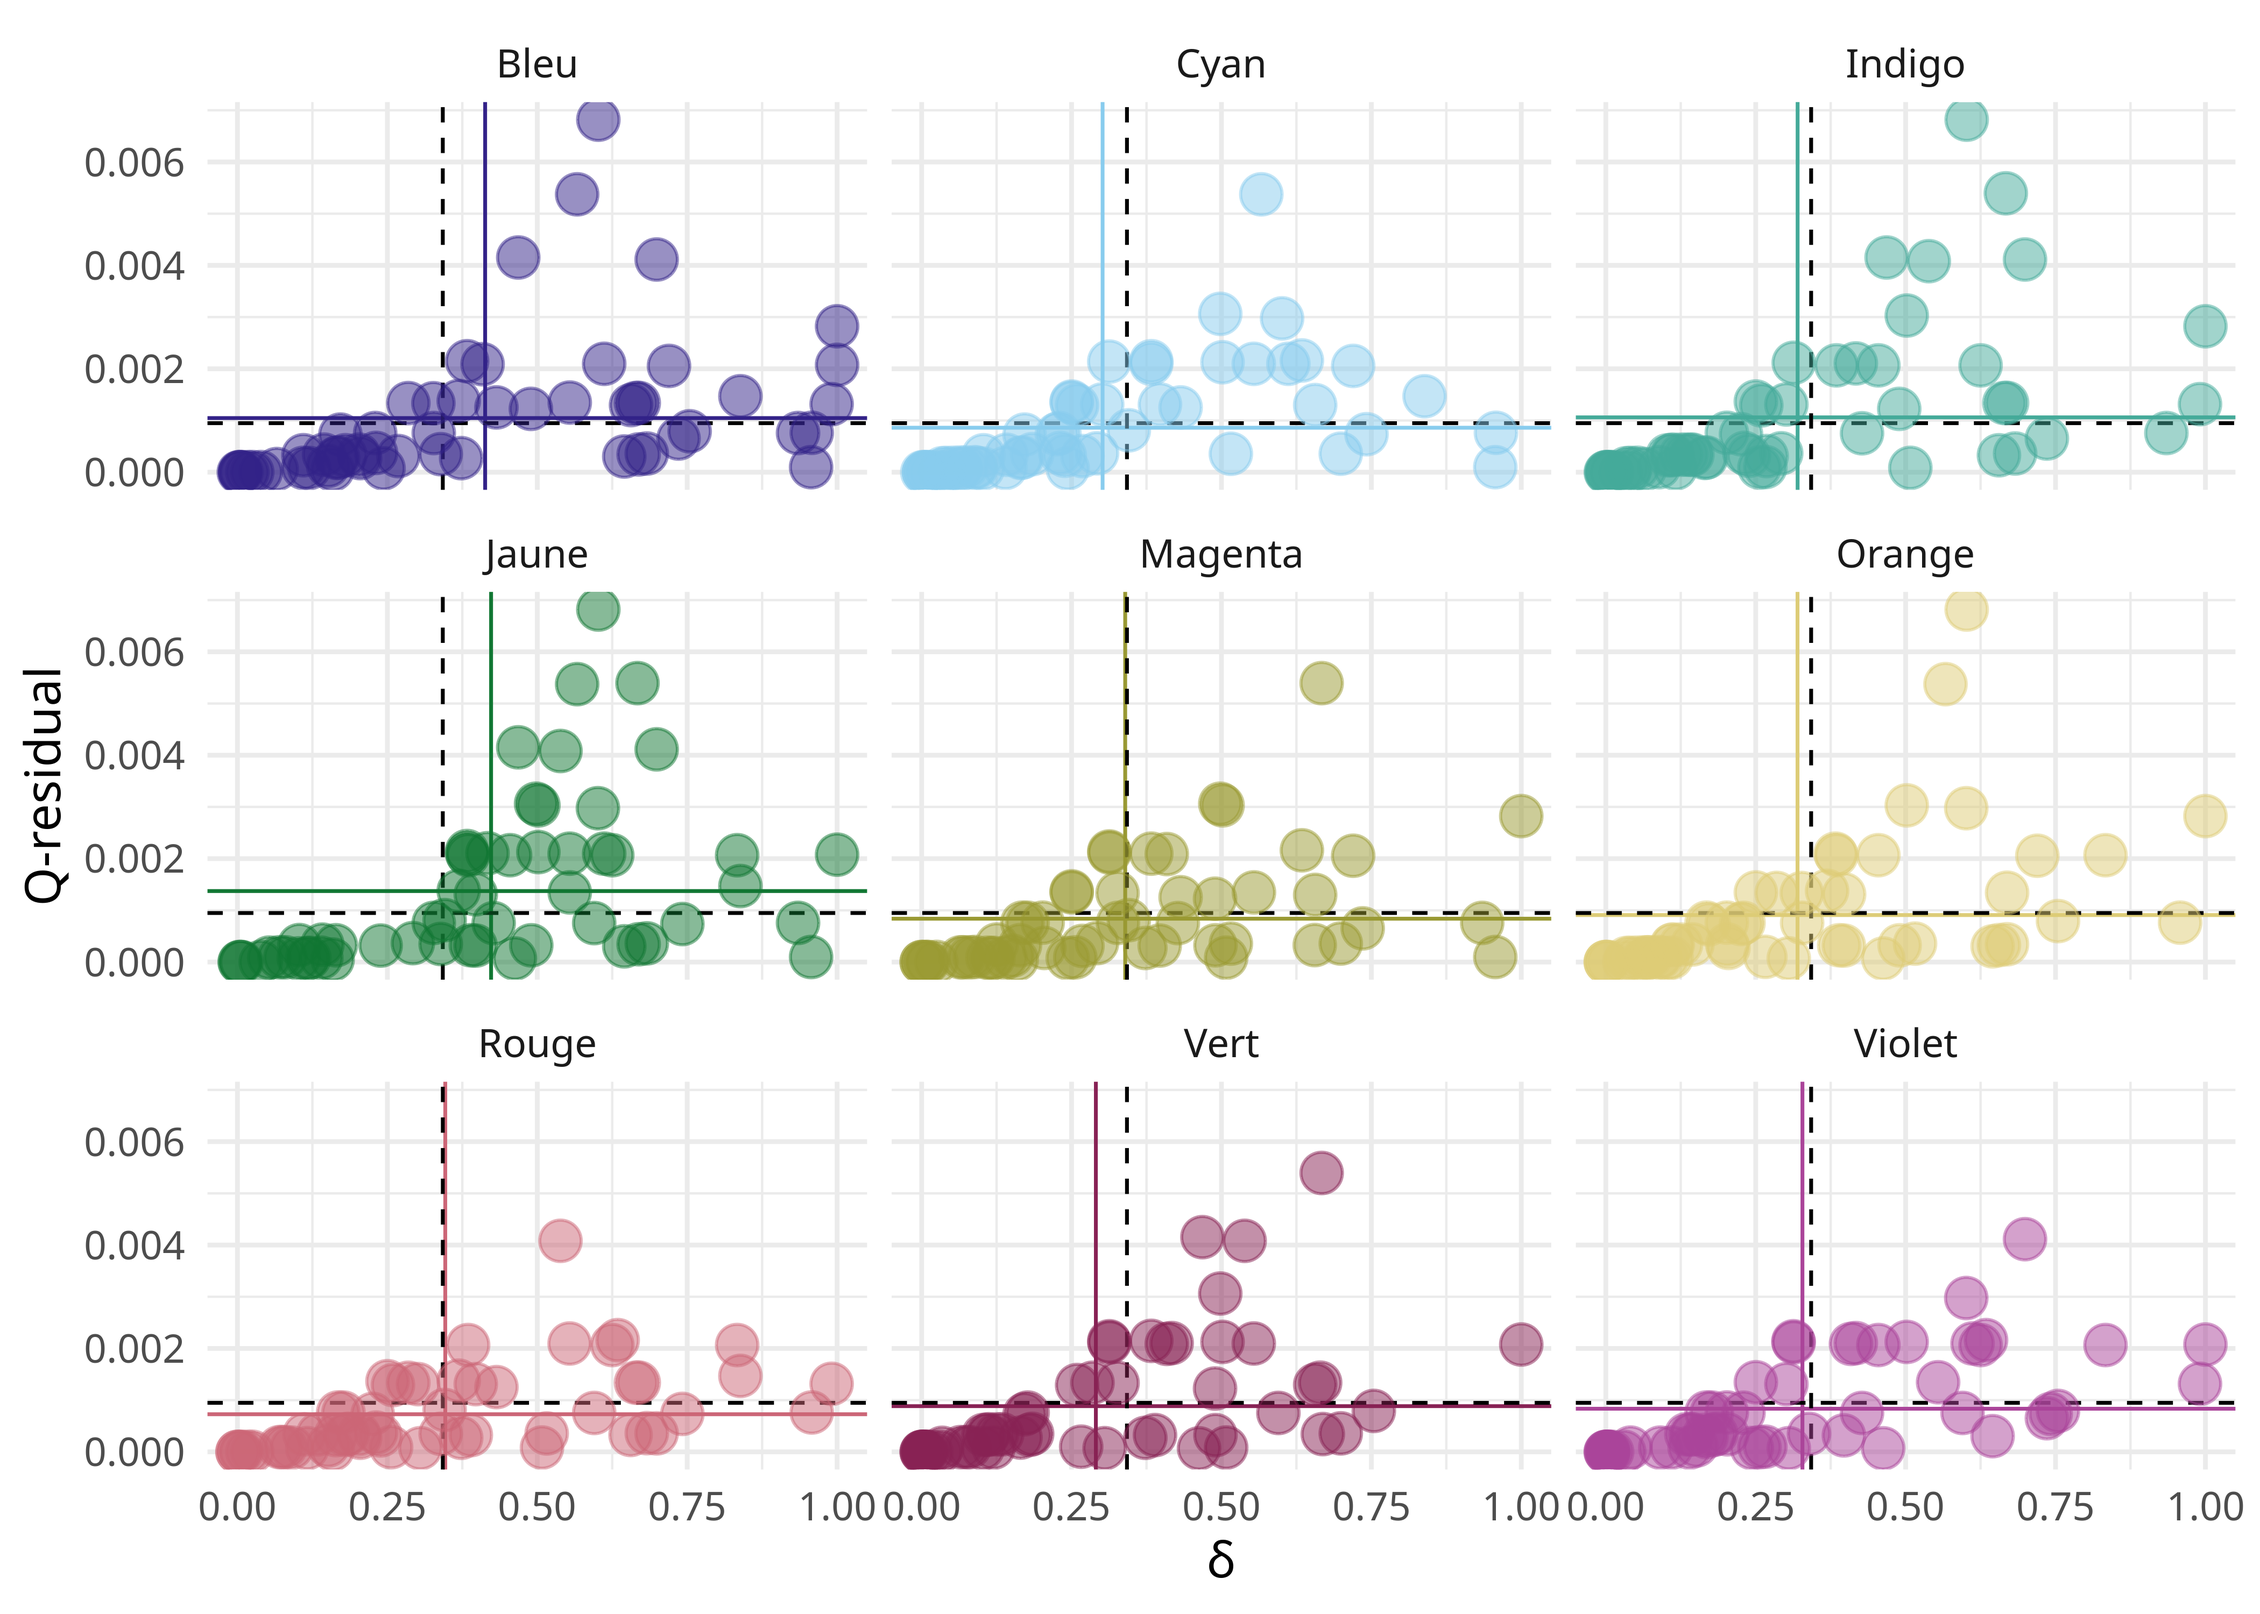
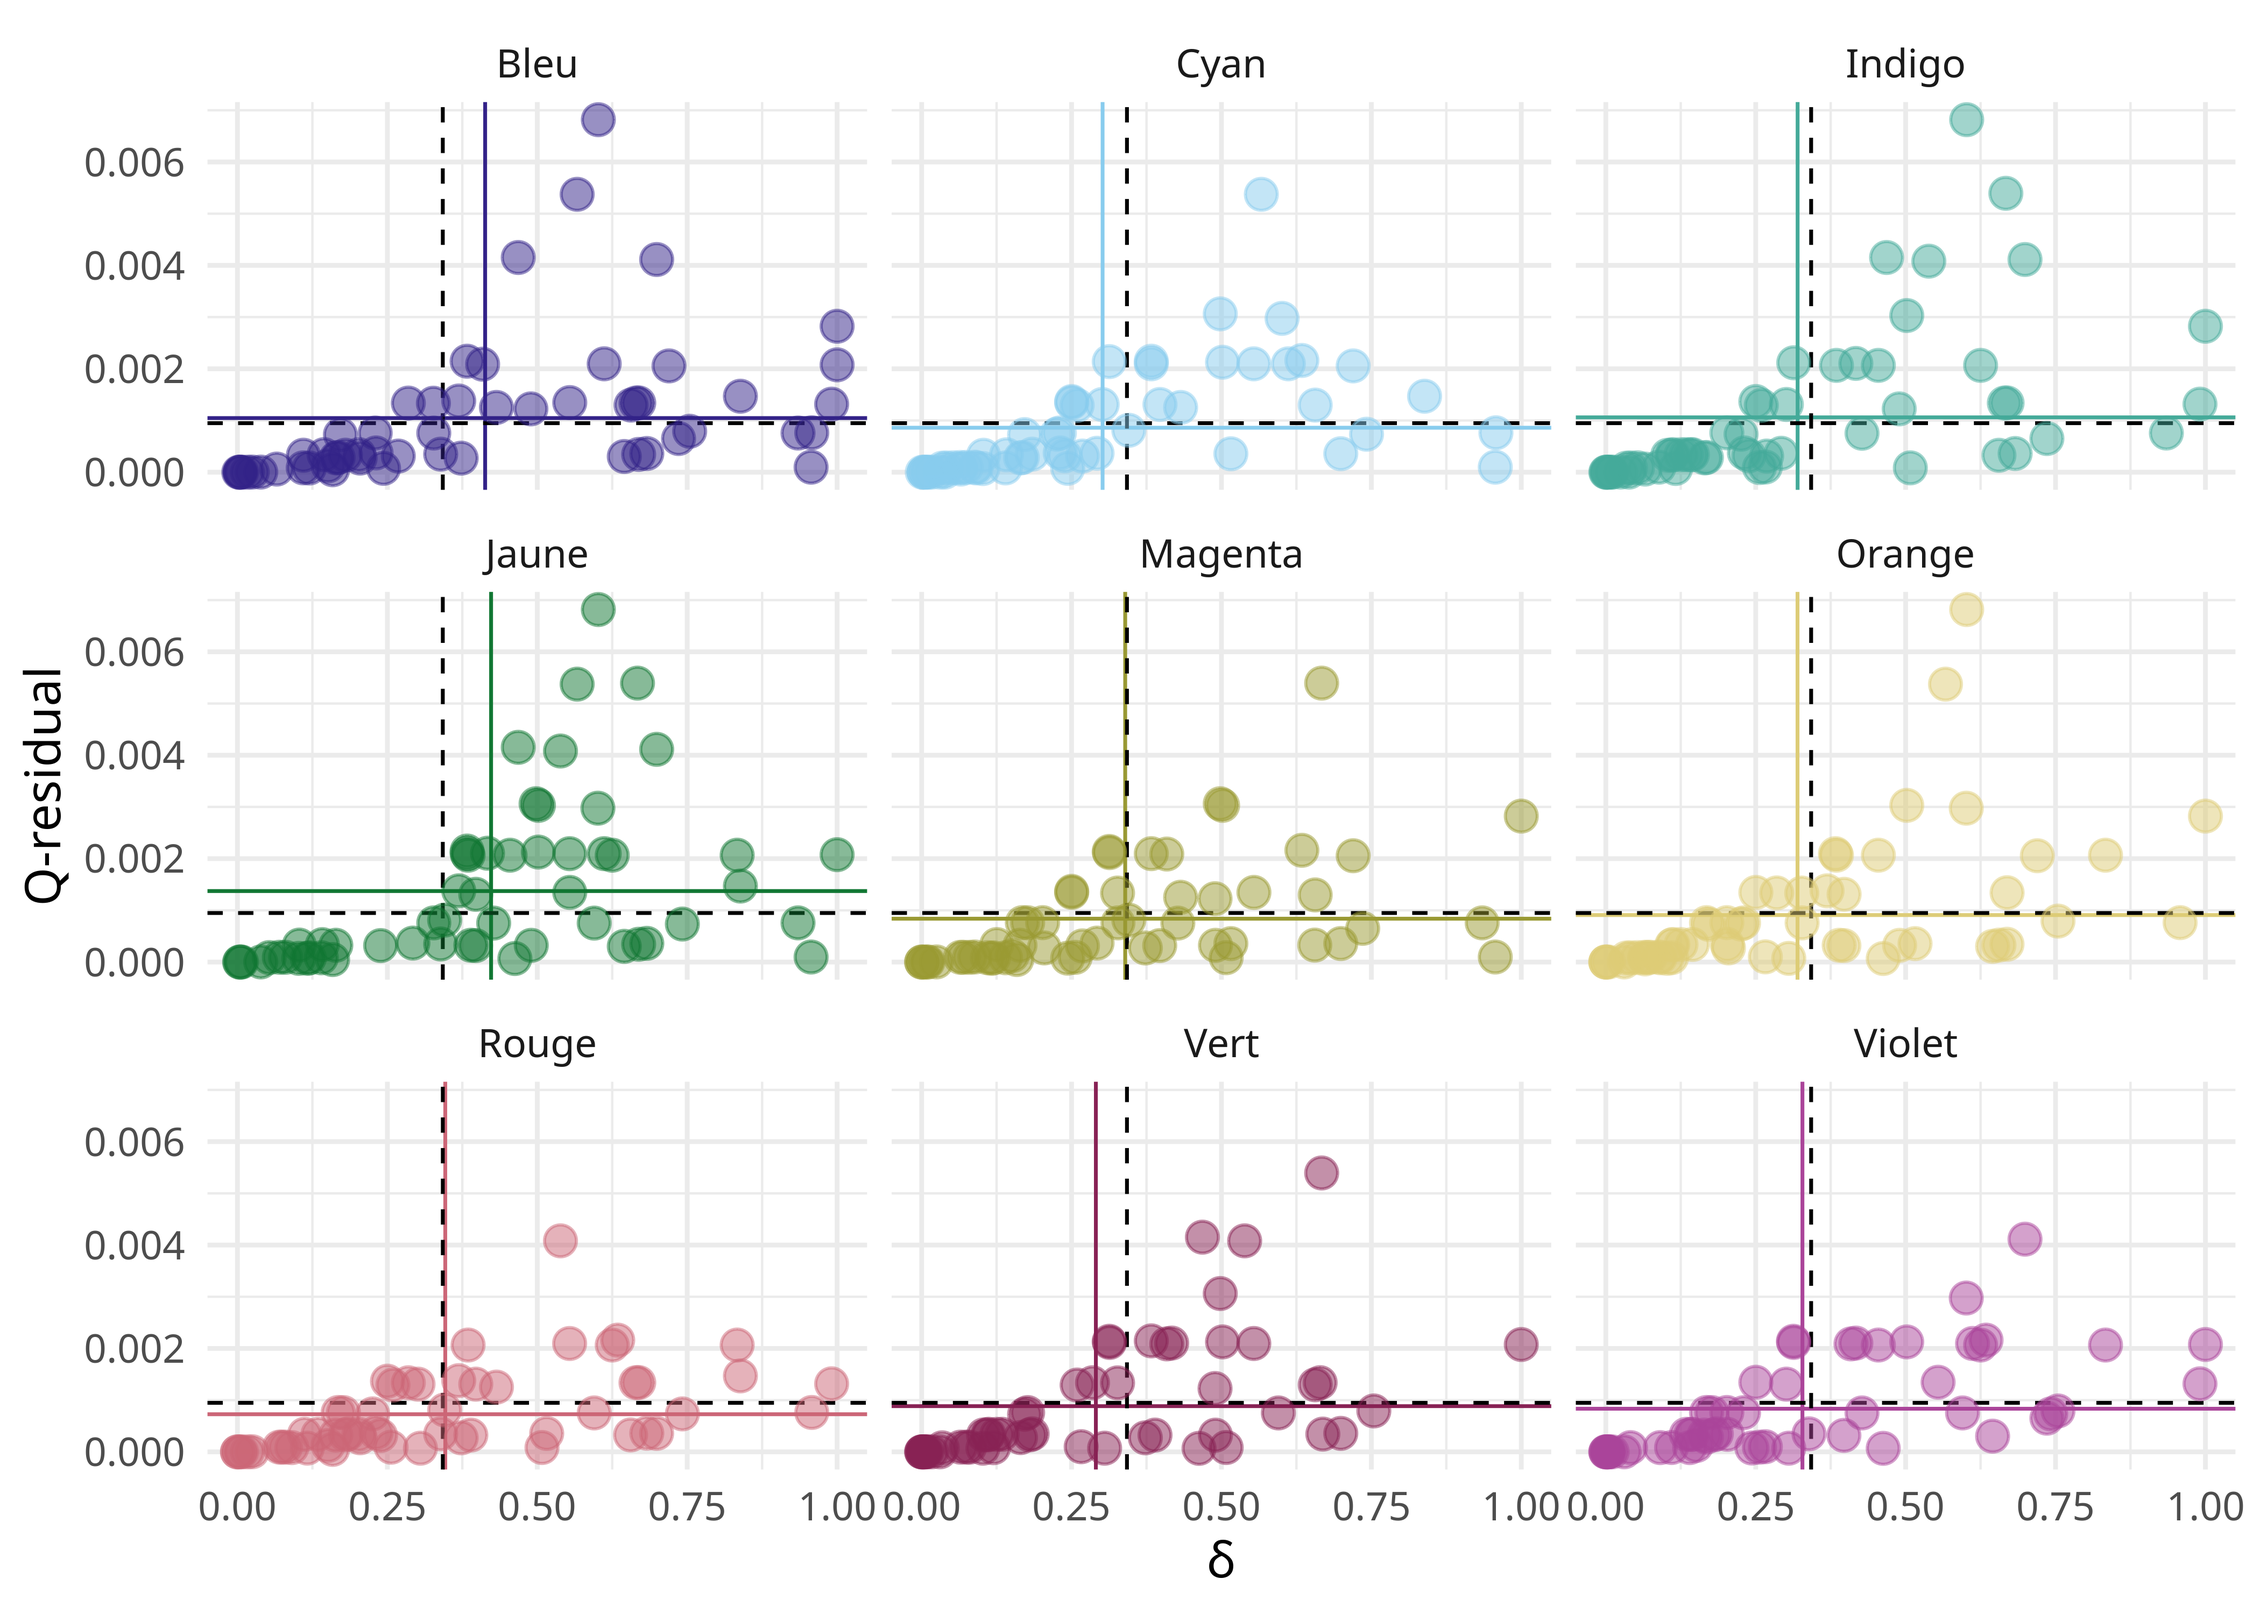
Update evaluation.html, unnamed-chunk-20-1.png, and 4 more files...

diff --git a/docs/evaluation.html b/docs/evaluation.html
@@ -530,7 +530,7 @@ $delta.bar
 <span>  <span class="fu"><a href="https://ggplot2.tidyverse.org/reference/geom_abline.html">geom_hline</a></span><span class="op">(</span>data <span class="op">=</span> <span class="va">dsqr_bytaxon_mean</span>, <span class="fu"><a href="https://ggplot2.tidyverse.org/reference/aes.html">aes</a></span><span class="op">(</span>yintercept <span class="op">=</span> <span class="va">qr</span>, color <span class="op">=</span> <span class="va">taxon</span><span class="op">)</span>, linewidth <span class="op">=</span> <span class="fl">.4</span><span class="op">)</span> <span class="op">+</span></span>
 <span>  <span class="fu"><a href="https://ggplot2.tidyverse.org/reference/geom_abline.html">geom_vline</a></span><span class="op">(</span>xintercept <span class="op">=</span> <span class="fu"><a href="https://rdrr.io/r/base/mean.html">mean</a></span><span class="op">(</span><span class="va">ds</span><span class="op">)</span>, linewidth <span class="op">=</span> <span class="fl">.4</span>, linetype <span class="op">=</span> <span class="st">"dashed"</span><span class="op">)</span> <span class="op">+</span></span>
 <span>  <span class="fu"><a href="https://ggplot2.tidyverse.org/reference/geom_abline.html">geom_hline</a></span><span class="op">(</span>yintercept <span class="op">=</span> <span class="fu"><a href="https://rdrr.io/r/base/mean.html">mean</a></span><span class="op">(</span><span class="va">qr</span><span class="op">)</span>, linewidth <span class="op">=</span> <span class="fl">.4</span>, linetype <span class="op">=</span> <span class="st">"dashed"</span><span class="op">)</span> <span class="op">+</span></span>
-<span>  <span class="fu"><a href="https://ggplot2.tidyverse.org/reference/geom_point.html">geom_point</a></span><span class="op">(</span>pch <span class="op">=</span> <span class="fl">21</span>, alpha <span class="op">=</span> <span class="fl">.5</span>, size <span class="op">=</span> <span class="fl">4</span><span class="op">)</span> <span class="op">+</span></span>
+<span>  <span class="fu"><a href="https://ggplot2.tidyverse.org/reference/geom_point.html">geom_point</a></span><span class="op">(</span>pch <span class="op">=</span> <span class="fl">21</span>, alpha <span class="op">=</span> <span class="fl">.5</span>, size <span class="op">=</span> <span class="fl">3</span><span class="op">)</span> <span class="op">+</span></span>
 <span>  <span class="fu"><a href="https://ggplot2.tidyverse.org/reference/labs.html">xlab</a></span><span class="op">(</span><span class="st">"δ"</span><span class="op">)</span> <span class="op">+</span></span>
 <span>  <span class="fu"><a href="https://ggplot2.tidyverse.org/reference/labs.html">ylab</a></span><span class="op">(</span><span class="st">"Q-residual"</span><span class="op">)</span> <span class="op">+</span></span>
 <span>  <span class="fu"><a href="https://ggplot2.tidyverse.org/reference/facet_wrap.html">facet_wrap</a></span><span class="op">(</span><span class="op">~</span><span class="va">taxon</span><span class="op">)</span> <span class="op">+</span></span>
